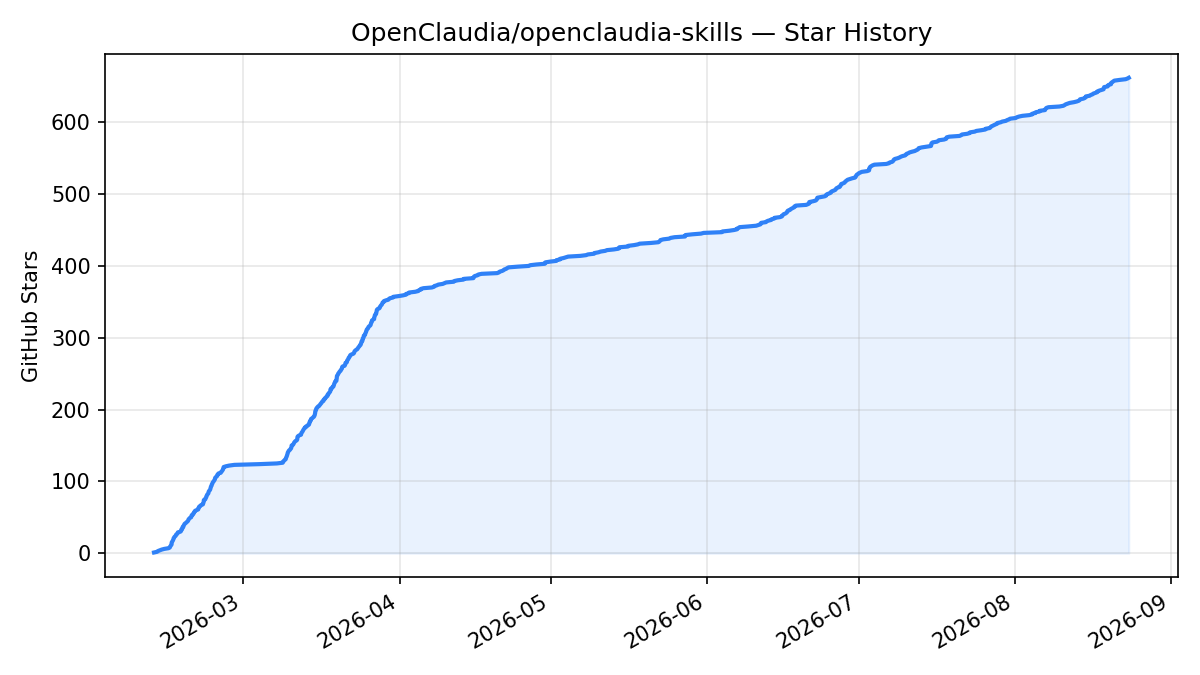
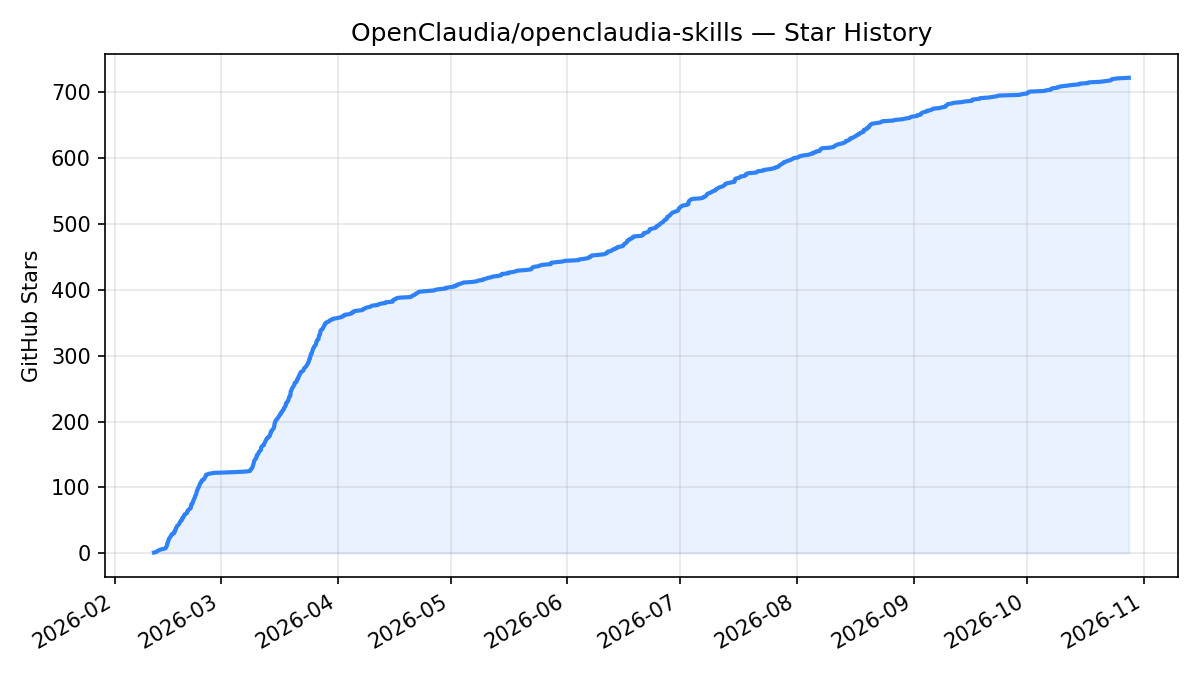
readme: refresh star chart (722 stars)

diff --git a/README.md b/README.md
@@ -344,7 +344,7 @@ MIT — see [LICENSE](LICENSE)
 
 ![Star History Chart](assets/star-history.png)
 
-<sub>Updated 2026-08-25. GitHub [restricted the stargazers API](https://github.blog/changelog/2026-06-30-upcoming-access-restrictions-to-public-api-endpoints-and-ui-views/) in June 2026, so the live star-history.com badge no longer renders; this chart is generated from the repo's own star data.</sub>
+<sub>Updated 2026-10-29. GitHub [restricted the stargazers API](https://github.blog/changelog/2026-06-30-upcoming-access-restrictions-to-public-api-endpoints-and-ui-views/) in June 2026, so the live star-history.com badge no longer renders; this chart is generated from the repo's own star data.</sub>
 
 ---
 
